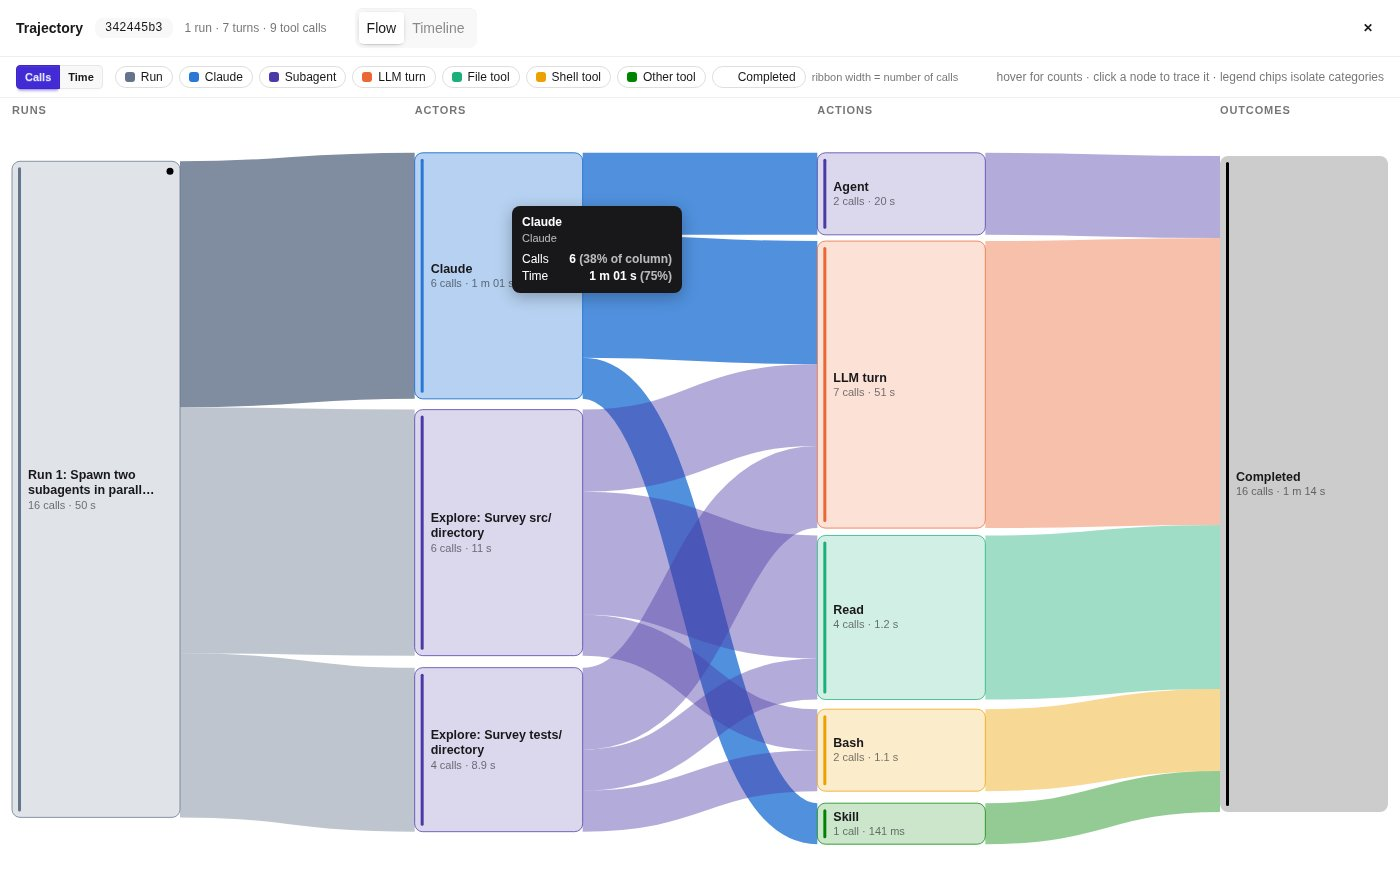
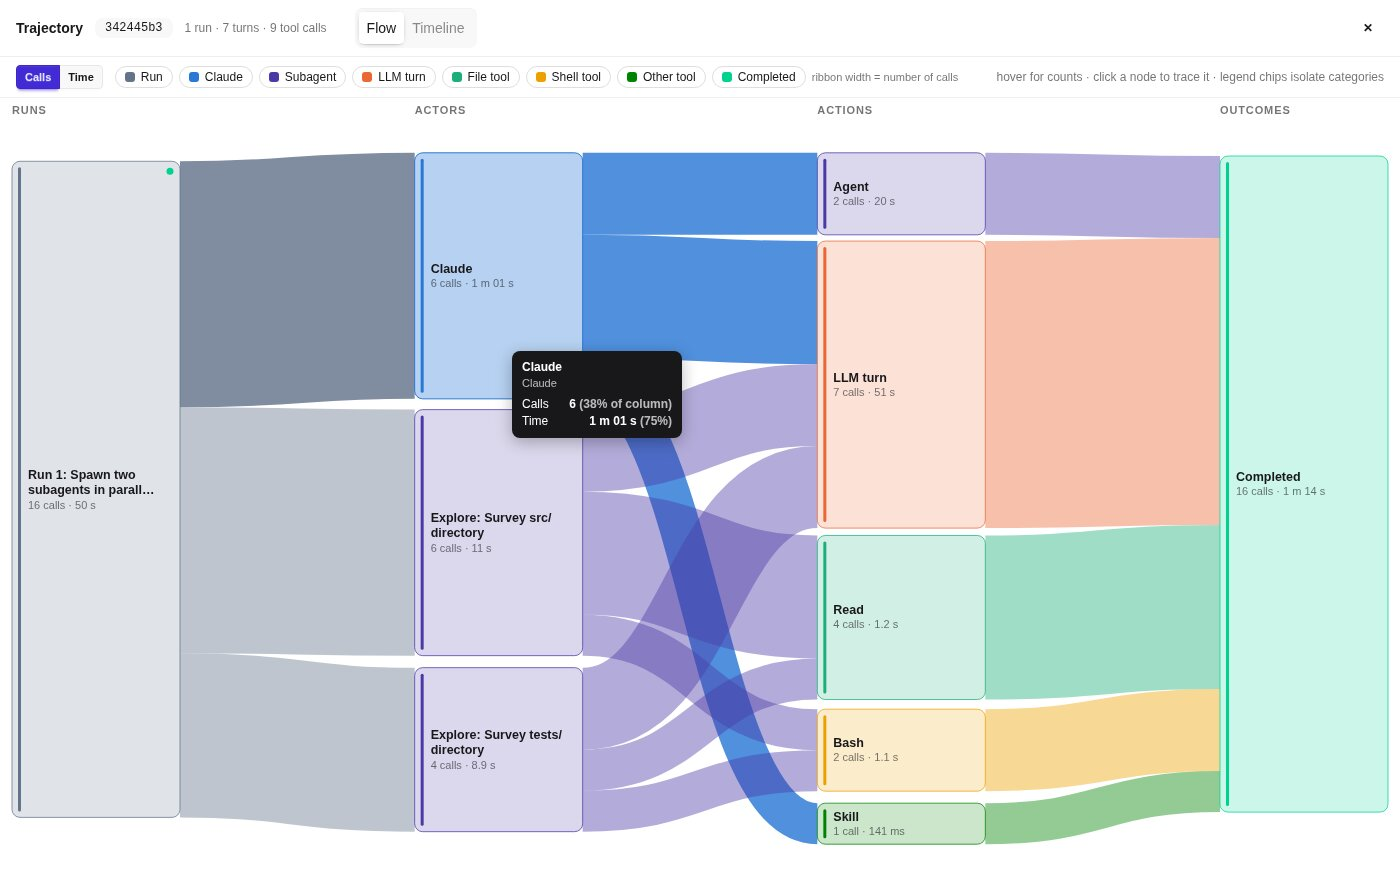
Add a screenshot gallery to the README; fix Sankey Flow's outcome color
The top-level README now opens with a gallery in place of the app
table: one screenshot per app, framed on its signature feature during a
bundled replay and linked to the app's folder, with its idea, stack and
author underneath. The images live in docs/gallery/.

Sankey Flow: a comment in static/style.css contained "mcp__*/", which
closed the comment early and made the browser drop the next line,
--flow-ok. Completed outcomes rendered gray instead of green. Reword
the comment and retake the app's screenshot.

Claude-Session: https://claude.ai/code/session_0133zT4QVBuNrFGwcogJjpkT

Changed region(s): [[0.86, 0.1543, 1.0, 0.9566], [0.3379, 0.216, 0.4914, 0.3703], [0.3379, 0.4011, 0.4914, 0.5246]]

diff --git a/sankey-flow/static/style.css b/sankey-flow/static/style.css
@@ -40,7 +40,7 @@ main.split { grid-template-columns: minmax(300px, 36%) minmax(0, 1fr); }
   --flow-tool-shell: #eda100;                                                  /* Bash — yellow */
   --flow-tool-file:  #1baf7a;                                                  /* Read/Write/Edit/Glob/Grep… — aqua */
   --flow-tool-web:   #e87ba4;                                                  /* WebSearch/WebFetch — magenta */
-  --flow-tool-other: #008300;                                                  /* ToolSearch/Skill/mcp__*/"Other tools" — green */
+  --flow-tool-other: #008300;                                                  /* ToolSearch/Skill/mcp__ tools/"Other tools" — green */
   --flow-ok:         var(--color-success);
   --flow-fail:       var(--color-error);
   --flow-stop:       var(--color-warning);

diff --git a/README.md b/README.md
@@ -10,15 +10,51 @@ around it.
 Every folder is a self-contained app with its own README. Each one bundles recorded runs, so you can try it
 without installing Claude Code or spending any usage.
 
-| App | The idea | Stack | Created by |
-|---|---|---|---|
-| [Intent Timeline](intent-timeline/) | Steps headed by what the agent said it would do, plus a "where the time went" timeline and cost split by model | Python standard library, vanilla JS | Yide Bian |
-| [Patchwork](patchwork/) | Delegation as a team at work: named subagents, one lane per agent, handoff cards | Vite + React, Express | Djordje Ivanovic |
-| [Fork View](fork-view/) | Parallel work forks the log into side-by-side columns, nested recursively | Vite + React, Express | Zoe Jingyi Liu |
-| [Sankey Flow](sankey-flow/) | A Sankey of where a run's calls and time went (agent → tool → outcome), plus speed gauges and an animated cat | Python + Flask | Ibrahim Khaliliya |
-| [Swimlanes](swimlanes/) | A real time axis: one swimlane per agent, with zoom and follow-live | Python standard library, single file | Eric Gong |
-| [Controller](controller/) | A hardware-style control surface (effort knob, model keys, subagent fader) with a radial scope of agents | Node + TypeScript, no dependencies | Raul Romero |
-| [Mission Control](mission-control/) | Sessions you manage, with a card per delegated subagent, a view scoped to each one and a call inspector | Next.js + tRPC + SQLite | Saul Richardson |
+<table>
+<tr>
+<td width="50%" valign="top">
+<a href="intent-timeline/"><img src="docs/gallery/intent-timeline.jpg" alt="Intent Timeline's 'where the time went' chart, with a main-agent lane holding two overlapping blue subagent bars and a lane of tool calls for each subagent, above a wall-time breakdown noting parallel calls saved 7.7 s and a run summary of cost by model, duration, tokens and subagent totals." width="100%"></a><br>
+<b><a href="intent-timeline/">Intent Timeline</a></b>: Steps headed by what the agent said it would do, plus a "where the time went" timeline and cost split by model.<br>
+<sub>Python standard library, vanilla JS · Created by Yide Bian</sub>
+</td>
+<td width="50%" valign="top">
+<a href="patchwork/"><img src="docs/gallery/patchwork.jpg" alt="Patchwork's Lanes view with columns for Djordje, Haru, Inês, Camila and part of Irina, where Djordje's lane lists his Assigned cards, each subagent lane runs from 'Assigned by Djordje' to a dashed 'Result returned' card, and green arrows link Inês's assignment and returned result to Djordje." width="100%"></a><br>
+<b><a href="patchwork/">Patchwork</a></b>: Delegation as a team at work: named subagents, one lane per agent, handoff cards.<br>
+<sub>Vite + React, Express · Created by Djordje Ivanovic</sub>
+</td>
+</tr>
+<tr>
+<td width="50%" valign="top">
+<a href="fork-view/"><img src="docs/gallery/fork-view.jpg" alt="Fork View's log forked into two side-by-side columns for parallel Explore subagents, the left nesting a subagent whose own two subagents are stacked inside it and the right nesting one, followed by a green final-result card." width="100%"></a><br>
+<b><a href="fork-view/">Fork View</a></b>: Parallel work forks the log into side-by-side columns, nested recursively.<br>
+<sub>Vite + React, Express · Created by Zoe Jingyi Liu</sub>
+</td>
+<td width="50%" valign="top">
+<a href="sankey-flow/"><img src="docs/gallery/sankey-flow.jpg" alt="Sankey Flow's four-column Sankey linking one run to Claude and two Explore subagents, then to LLM turn, Agent, Read, Bash and Skill actions and a Completed outcome, with the LLM turn ribbons highlighted and a tooltip showing 7 calls (44% of column) and 51 s (70%)." width="100%"></a><br>
+<b><a href="sankey-flow/">Sankey Flow</a></b>: A Sankey of where a run's calls and time went (agent → tool → outcome), plus speed gauges and an animated cat.<br>
+<sub>Python + Flask · Created by Ibrahim Khaliliya</sub>
+</td>
+</tr>
+<tr>
+<td width="50%" valign="top">
+<a href="swimlanes/"><img src="docs/gallery/swimlanes.jpg" alt="Swimlanes' dark Timeline view, with a zoom slider at 35 px/s, a 0 to 18 s ruler and seven agent lanes whose pink Agent bars and colored tool-call blocks sit at their real times across two consecutive replayed runs." width="100%"></a><br>
+<b><a href="swimlanes/">Swimlanes</a></b>: A real time axis: one swimlane per agent, with zoom and follow-live.<br>
+<sub>Python standard library, single file · Created by Eric Gong</sub>
+</td>
+<td width="50%" valign="top">
+<a href="controller/"><img src="docs/gallery/controller.jpg" alt="Controller's dark hardware-style board after a replayed run, with the effort knob at xhigh, the opus key pressed, the subagent fader at 4 with delegation required, nested subagent cards in the center and a radial scope of four subagents around the main agent." width="100%"></a><br>
+<b><a href="controller/">Controller</a></b>: A hardware-style control surface (effort knob, model keys, subagent fader) with a radial scope of agents.<br>
+<sub>Node + TypeScript, no dependencies · Created by Raul Romero</sub>
+</td>
+</tr>
+<tr>
+<td colspan="2" align="center" valign="top">
+<a href="mission-control/"><img src="docs/gallery/mission-control.jpg" alt="Mission Control mid-run, with a main-session card and three Working subagent cards above a tool-call outline and three stacked Agent groups, the last expanded to show a nested subagent's navigate call." width="50%"></a><br>
+<b><a href="mission-control/">Mission Control</a></b>: Sessions you manage, with a card per delegated subagent, a view scoped to each one and a call inspector.<br>
+<sub>Next.js + tRPC + SQLite · Created by Saul Richardson</sub>
+</td>
+</tr>
+</table>
 
 ## Getting started
 
